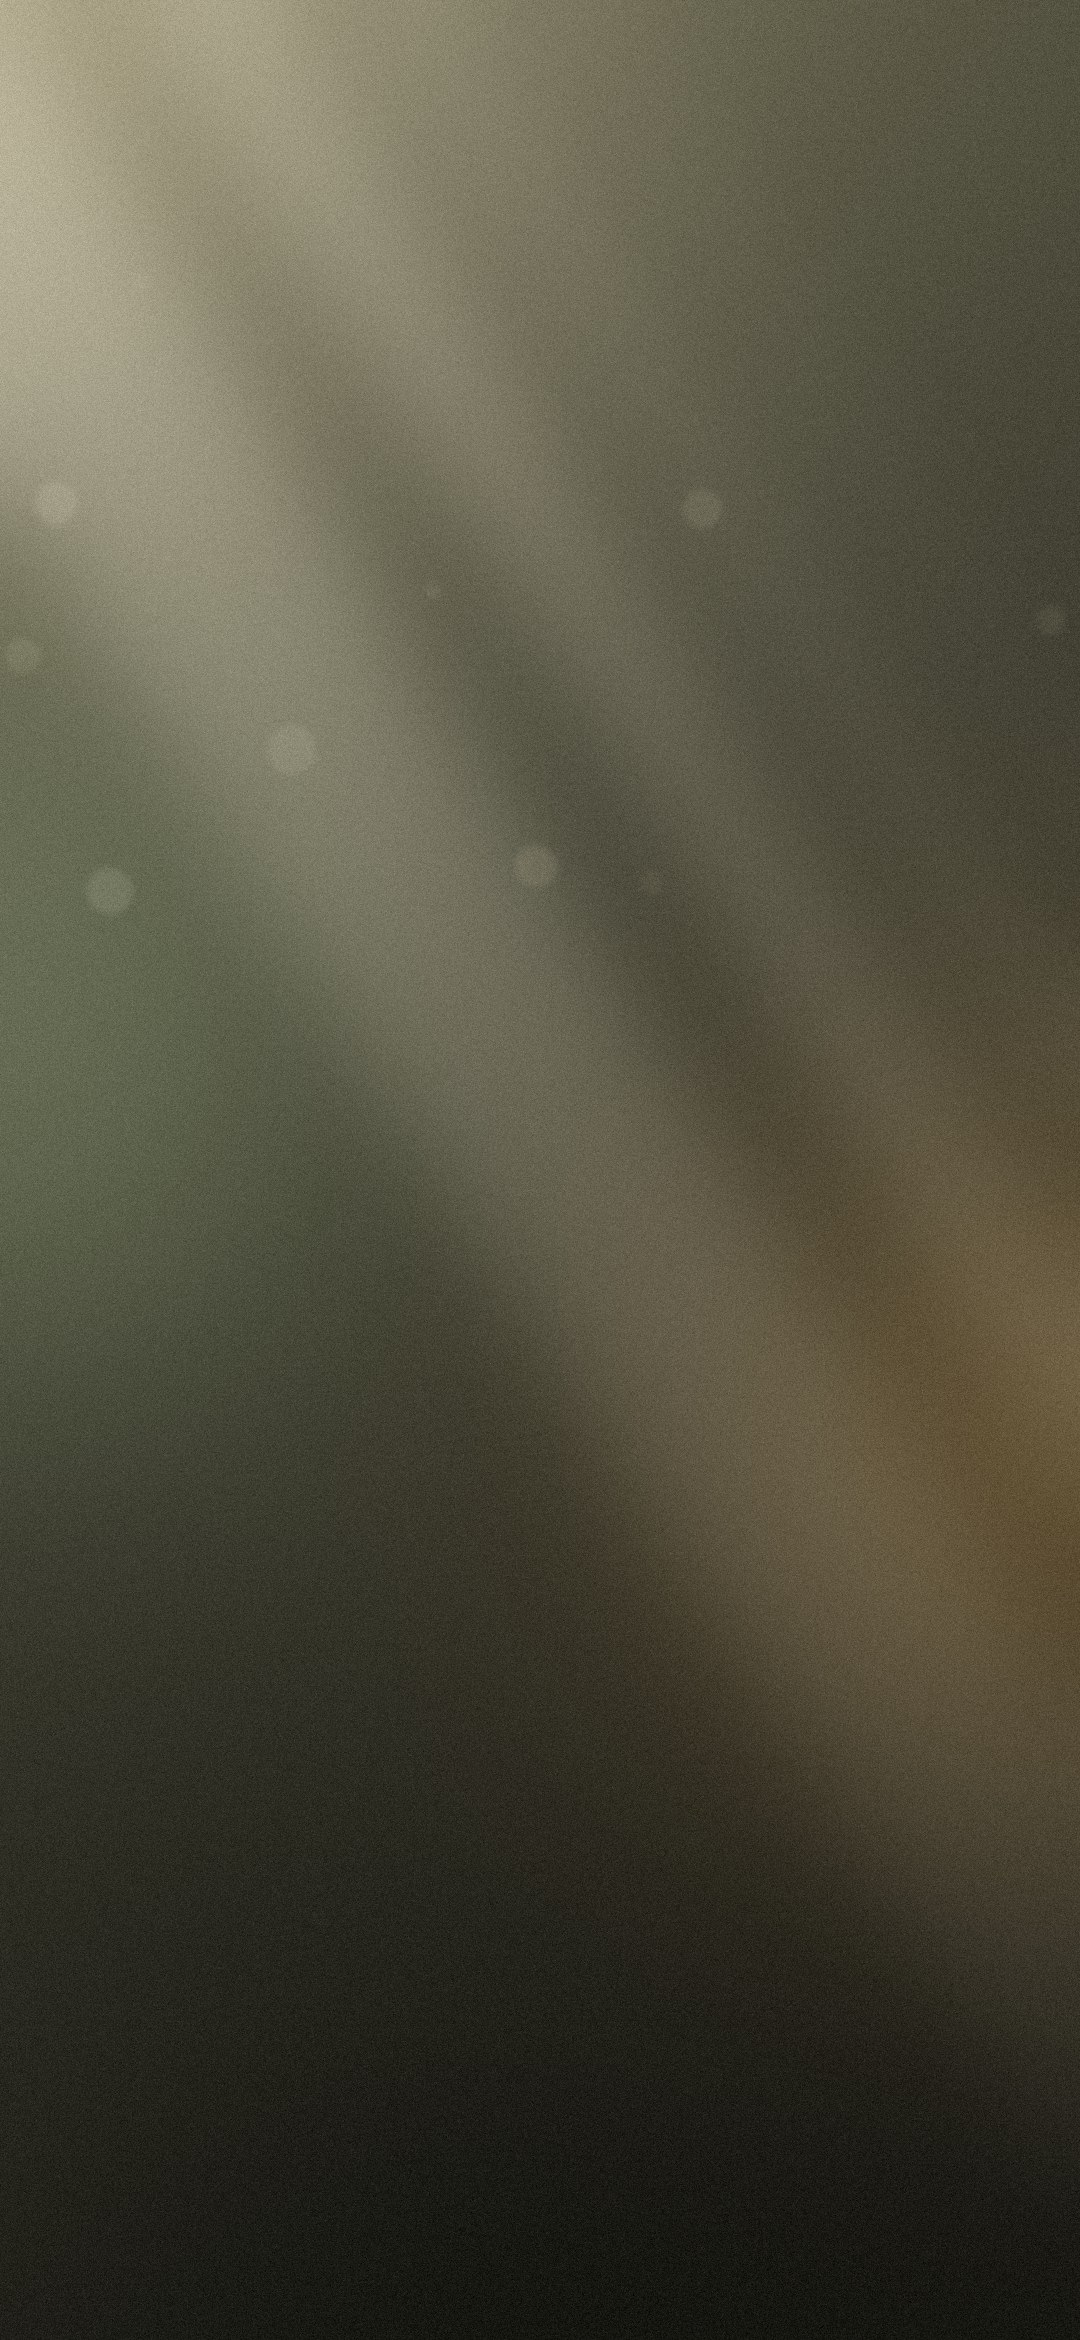
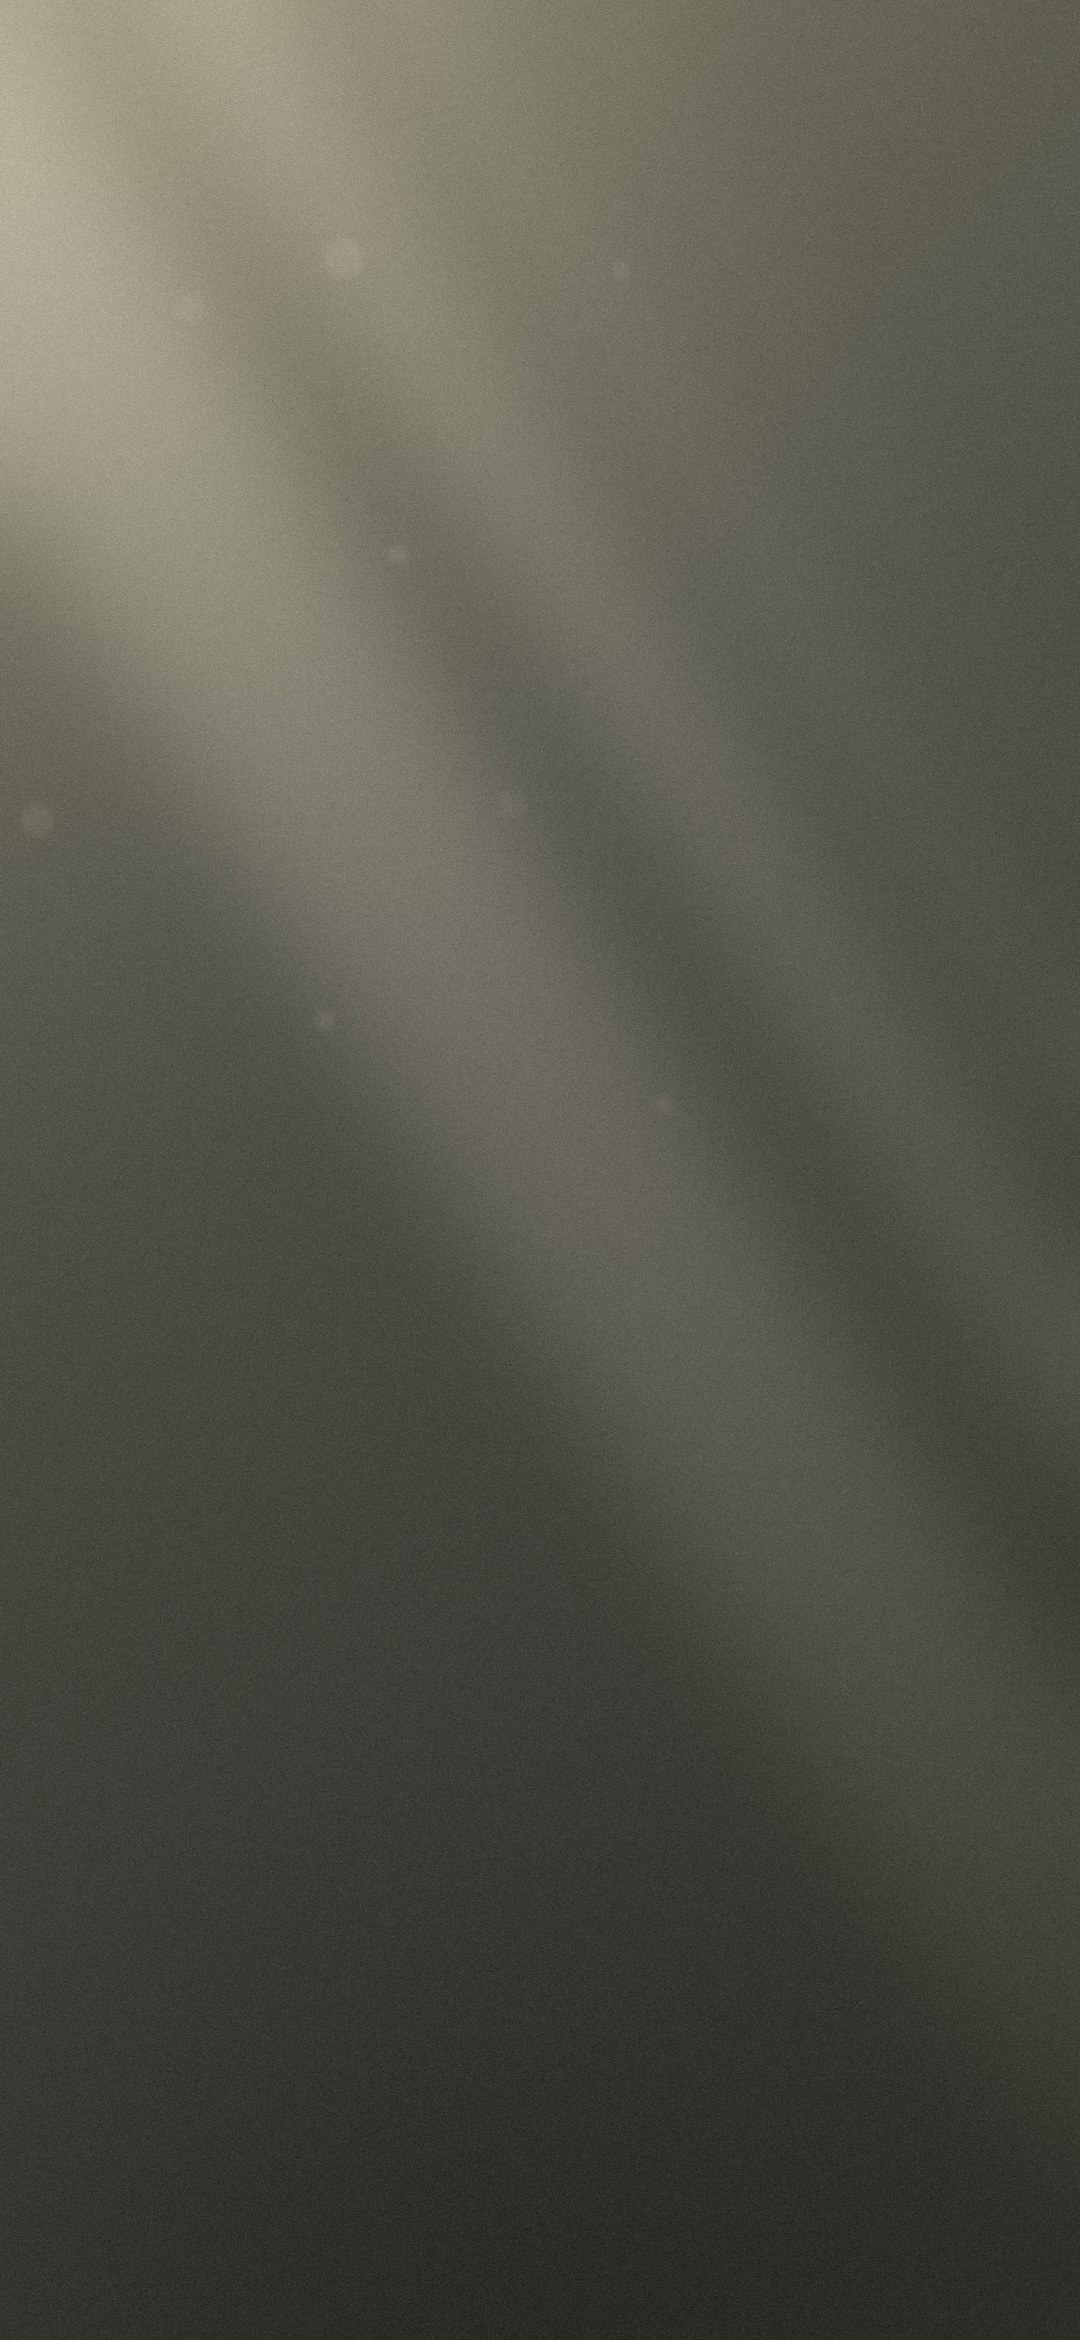
Match the measured reference palettes for Lavender and Stone
Lavender (from the music-app reference)
- Backdrop: light lavender sky (#B4A8EE) through periwinkle (#8494E3) into cobalt,
  with orchid and a touch of hot pink in the light
- Blue-tinted glass, violet selected pills and chips (#938DEE)
- Hot-pink accent (#F270C8) for progress bars and the sound slider, orchid glow

Stone (from the meditation reference)
- Olive palette #676755 / #4B4B44 / #31332B, all warm, cream ink #FFFBE9
- Quieter glass (about 8% lift, light shadow), gold accent #E6D6B3, gold selected pills
- Light-weight headings (DM Sans 300)

New theme tokens: accent, selected, onSelected. Header veils keep text near 4.4:1 or better.

Claude-Session: https://claude.ai/code/session_01J4isz7QKZ3STKCNEGrqxRF

diff --git a/src/theme.ts b/src/theme.ts
@@ -37,6 +37,11 @@ export interface Palette {
   glow: string;
   /** Liquid glass light: the bright top rim, the specular shine, and the colour caught along the bottom edge. */
   rim: string;
+  /** Progress bars, sliders and other small bright accents. */
+  accent: string;
+  /** Selected pills and chips, and their label colour. */
+  selected: string;
+  onSelected: string;
   /** Deep, soft drop shadow that lifts glass off the backdrop (CSS box-shadow syntax). */
   shadow: string;
   shine: string;
@@ -54,30 +59,33 @@ export type Kind = 'routines' | 'gym' | 'chinese' | 'groceries' | 'calendar' | '
 const PALETTES: Record<ThemeName, { colors: Palette; kinds: Record<Kind, KindStyle> }> = {
   lavender: {
     colors: {
-      gradient: ['#8E7CEB', '#6A52DB', '#7A5CE3'],
-      bg: '#7A62E0',
-      card: 'rgba(70,40,180,0.24)',
-      cardBorder: 'rgba(255,255,255,0.3)',
-      sheet: '#6E57D8',
-      input: 'rgba(70,40,180,0.24)',
+      gradient: ['#B4A8EE', '#8494E3', '#3D5FB9'],
+      bg: '#8494E3',
+      card: 'rgba(40,70,160,0.32)',
+      cardBorder: 'rgba(255,255,255,0.24)',
+      sheet: '#5B6BBC',
+      input: 'rgba(40,70,160,0.32)',
       text: '#FFFFFF',
-      muted: 'rgba(255,255,255,0.86)',
-      faint: 'rgba(255,255,255,0.72)',
+      muted: 'rgba(255,255,255,0.88)',
+      faint: 'rgba(255,255,255,0.74)',
       border: 'rgba(255,255,255,0.28)',
       primary: '#FFFFFF',
-      onPrimary: '#5B43D6',
-      primarySoft: 'rgba(255,255,255,0.22)',
+      onPrimary: '#4A55B8',
+      primarySoft: 'rgba(147,141,238,0.6)',
       danger: '#FFD1DC',
-      backdrop: 'rgba(40,24,110,0.35)',
+      backdrop: 'rgba(20,30,80,0.4)',
       tabBar: 'rgba(255,255,255,0.18)',
       statusBar: 'light',
-      glassFill: ['rgba(72,40,190,0.55)', 'rgba(40,18,140,0.6)'],
+      glassFill: ['rgba(60,82,184,0.6)', 'rgba(32,52,112,0.64)'],
       blurTint: 'default',
-      glow: '#E9A8FF',
-      rim: 'rgba(255,255,255,0.7)',
-      shadow: '0px 10px 30px rgba(40,16,130,0.32)',
-      shine: 'rgba(255,255,255,0.14)',
-      edgeGlow: 'rgba(255,170,236,0.22)',
+      glow: '#CD94E6',
+      rim: 'rgba(255,255,255,0.4)',
+      accent: '#F270C8',
+      selected: '#938DEE',
+      onSelected: '#FFFFFF',
+      shadow: '0px 10px 30px rgba(35,58,140,0.35)',
+      shine: 'rgba(255,255,255,0.12)',
+      edgeGlow: 'rgba(205,148,230,0.22)',
     },
     kinds: {
       routines: { color: '#5B43D6', soft: 'rgba(91,67,214,0.25)', label: 'Routines' },
@@ -90,30 +98,33 @@ const PALETTES: Record<ThemeName, { colors: Palette; kinds: Record<Kind, KindSty
   },
   stone: {
     colors: {
-      gradient: ['#55553F', '#3E3E30', '#2A2A22'],
-      bg: '#3E3E30',
-      card: 'rgba(255,255,255,0.08)',
-      cardBorder: 'rgba(255,255,255,0.2)',
-      sheet: '#393A2D',
-      input: 'rgba(255,255,255,0.08)',
-      text: '#F2EEE3',
-      muted: 'rgba(242,238,227,0.66)',
-      faint: 'rgba(242,238,227,0.6)',
+      gradient: ['#676755', '#4B4B44', '#31332B'],
+      bg: '#4B4B44',
+      card: 'rgba(255,250,235,0.08)',
+      cardBorder: 'rgba(255,250,235,0.14)',
+      sheet: '#3F403A',
+      input: 'rgba(255,250,235,0.08)',
+      text: '#FFFBE9',
+      muted: '#C9C2B1',
+      faint: 'rgba(255,251,233,0.6)',
       border: 'rgba(242,238,227,0.14)',
-      primary: '#E4D6B4',
+      primary: '#E6D6B3',
       onPrimary: '#2E2D24',
-      primarySoft: 'rgba(242,238,227,0.12)',
+      primarySoft: 'rgba(255,251,233,0.12)',
       danger: '#E7A08F',
       backdrop: 'rgba(0,0,0,0.45)',
       tabBar: 'rgba(30,30,24,0.6)',
       statusBar: 'light',
-      glassFill: ['rgba(255,250,235,0.16)', 'rgba(255,250,235,0.03)'],
+      glassFill: ['rgba(255,250,235,0.10)', 'rgba(255,250,235,0.04)'],
       blurTint: 'dark',
-      glow: '#E8D3A0',
-      rim: 'rgba(255,246,222,0.5)',
-      shadow: '0px 12px 34px rgba(0,0,0,0.4)',
-      shine: 'rgba(255,248,230,0.12)',
-      edgeGlow: 'rgba(232,211,160,0.10)',
+      glow: '#E6D6B3',
+      rim: '#93917C',
+      accent: '#E6D6B3',
+      selected: '#E6D6B3',
+      onSelected: '#2E2D24',
+      shadow: '0px 6px 18px rgba(0,0,0,0.18)',
+      shine: 'rgba(255,248,230,0.08)',
+      edgeGlow: 'rgba(230,214,179,0.06)',
     },
     kinds: {
       routines: { color: '#A9B9D3', soft: 'rgba(169,185,211,0.18)', label: 'Routines' },
@@ -147,6 +158,9 @@ const PALETTES: Record<ThemeName, { colors: Palette; kinds: Record<Kind, KindSty
       blurTint: 'light',
       glow: 'transparent',
       rim: '#E1E4E0',
+      accent: '#141716',
+      selected: '#141716',
+      onSelected: '#FFFFFF',
       shadow: '0px 1px 2px rgba(0,0,0,0.04)',
       shine: 'transparent',
       edgeGlow: 'transparent',
@@ -178,7 +192,7 @@ const FONTS = {
 
 const DISPLAY: Record<ThemeName, { display: string; displayMedium: string }> = {
   lavender: { display: 'DMSans_700Bold', displayMedium: 'DMSans_700Bold' },
-  stone: { display: 'DMSans_400Regular', displayMedium: 'DMSans_500Medium' },
+  stone: { display: 'DMSans_300Light', displayMedium: 'DMSans_400Regular' },
   paper: { display: 'BricolageGrotesque_700Bold', displayMedium: 'BricolageGrotesque_500Medium' },
 };
 

diff --git a/src/app/index.tsx b/src/app/index.tsx
@@ -820,7 +820,7 @@ const makeStyles = ({ colors, fonts, type, radius, glass }: Theme) =>
     },
     heroActionText: { fontFamily: fonts.bodyBold, fontSize: 15, color: colors.onPrimary },
     heroTrack: { flex: 1, flexDirection: 'row', height: 6, borderRadius: 3, backgroundColor: colors.primarySoft, overflow: 'hidden' },
-    heroFill: { backgroundColor: colors.text, borderRadius: 3 },
+    heroFill: { backgroundColor: colors.accent, borderRadius: 3 },
     shortcuts: { gap: 12, paddingVertical: 14, paddingHorizontal: 14 },
     shortcut: { width: 64, alignItems: 'center', gap: 6 },
     shortcutCircle: {
@@ -845,7 +845,7 @@ const makeStyles = ({ colors, fonts, type, radius, glass }: Theme) =>
     shortcutLabel: { fontFamily: fonts.bodyMedium, fontSize: 12, lineHeight: 15, color: colors.text, textAlign: 'center' },
     status: { gap: 8, marginTop: 20 },
     track: { flexDirection: 'row', height: 3, borderRadius: 2, backgroundColor: colors.border, overflow: 'hidden' },
-    fill: { backgroundColor: colors.text },
+    fill: { backgroundColor: colors.accent },
     timeline: { paddingVertical: 6 },
     rail: { position: 'absolute', left: 88, top: 24, bottom: 24, width: 2, backgroundColor: colors.border },
     tRow: { flexDirection: 'row', alignItems: 'center', gap: 12, paddingVertical: 8, paddingLeft: 12, paddingRight: 16 },

diff --git a/src/components/NowPlaying.tsx b/src/components/NowPlaying.tsx
@@ -156,8 +156,8 @@ const makeStyles = ({ colors, fonts }: Theme) =>
     art: { alignItems: 'center', marginVertical: 22 },
     name: { fontFamily: fonts.display, fontSize: 26, color: colors.text },
     track: { flexDirection: 'row', alignItems: 'center', height: 14, marginTop: 18 },
-    fill: { height: 4, borderRadius: 2, backgroundColor: colors.text },
-    knob: { width: 12, height: 12, borderRadius: 6, backgroundColor: colors.text, marginLeft: -2 },
+    fill: { height: 4, borderRadius: 2, backgroundColor: colors.accent },
+    knob: { width: 12, height: 12, borderRadius: 6, backgroundColor: colors.accent, marginLeft: -2, boxShadow: `0px 0px 10px ${colors.accent}` },
     times: { flexDirection: 'row', justifyContent: 'space-between' },
     time: { fontFamily: fonts.mono, fontSize: 12, color: colors.muted },
     controls: { flexDirection: 'row', alignItems: 'center', justifyContent: 'center', gap: 44, marginTop: 12 },

diff --git a/src/app/_layout.tsx b/src/app/_layout.tsx
@@ -3,6 +3,7 @@ import { BricolageGrotesque_500Medium } from '@expo-google-fonts/bricolage-grote
 import { BricolageGrotesque_700Bold } from '@expo-google-fonts/bricolage-grotesque/700Bold';
 import { DMMono_400Regular } from '@expo-google-fonts/dm-mono/400Regular';
 import { DMMono_500Medium } from '@expo-google-fonts/dm-mono/500Medium';
+import { DMSans_300Light } from '@expo-google-fonts/dm-sans/300Light';
 import { DMSans_400Regular } from '@expo-google-fonts/dm-sans/400Regular';
 import { DMSans_500Medium } from '@expo-google-fonts/dm-sans/500Medium';
 import { DMSans_700Bold } from '@expo-google-fonts/dm-sans/700Bold';
@@ -41,6 +42,7 @@ export default function RootLayout() {
   const [loaded, error] = useFonts({
     BricolageGrotesque_500Medium,
     BricolageGrotesque_700Bold,
+    DMSans_300Light,
     DMSans_400Regular,
     DMSans_500Medium,
     DMSans_700Bold,

diff --git a/src/components/Art.tsx b/src/components/Art.tsx
@@ -10,11 +10,11 @@ const BACKDROPS = {
   stone: require('../../assets/art/stone-bg.jpg'),
 };
 // A light veil over each backdrop so white text keeps its contrast where the light is brightest.
-const SCRIMS = { lavender: 'rgba(40,20,120,0.12)', stone: 'rgba(16,16,10,0.2)' };
+const SCRIMS = { lavender: 'rgba(30,40,110,0.06)', stone: 'rgba(16,16,10,0.1)' };
 // Headers sit straight on the backdrop, where its light is brightest; a deeper veil up top keeps them readable.
 const TOP_VEILS: Record<'lavender' | 'stone', [string, string]> = {
-  lavender: ['rgba(46,22,150,0.58)', 'rgba(46,22,150,0)'],
-  stone: ['rgba(12,12,8,0.45)', 'rgba(12,12,8,0)'],
+  lavender: ['rgba(44,56,150,0.66)', 'rgba(44,56,150,0)'],
+  stone: ['rgba(20,20,14,0.52)', 'rgba(20,20,14,0)'],
 };
 const PORTALS: Record<string, number> = {
   dusk: require('../../assets/art/portal-dusk.jpg'),

diff --git a/src/app/library.tsx b/src/app/library.tsx
@@ -97,8 +97,8 @@ const makeStyles = ({ colors, fonts }: Theme) =>
       borderColor: colors.cardBorder,
       backgroundColor: colors.card,
     },
-    pillActive: { backgroundColor: colors.primary, borderColor: colors.primary },
+    pillActive: { backgroundColor: colors.selected, borderColor: colors.selected },
     pillText: { fontFamily: fonts.bodyMedium, fontSize: 14, color: colors.text },
-    pillTextActive: { color: colors.onPrimary },
+    pillTextActive: { color: colors.onSelected },
     pillCount: { fontFamily: fonts.mono, fontSize: 12, opacity: 0.7 },
   });

diff --git a/src/app/inbox.tsx b/src/app/inbox.tsx
@@ -145,8 +145,8 @@ const makeStyles = ({ colors, fonts }: Theme) =>
       borderColor: colors.border,
       justifyContent: 'center',
     },
-    actionActive: { backgroundColor: colors.primary, borderColor: colors.primary },
+    actionActive: { backgroundColor: colors.selected, borderColor: colors.selected },
     actionText: { fontFamily: fonts.bodyMedium, fontSize: 13, color: colors.text },
-    actionTextActive: { color: colors.onPrimary },
+    actionTextActive: { color: colors.onSelected },
     hint: { textAlign: 'center', marginTop: 20 },
   });

diff --git a/src/components/Chip.tsx b/src/components/Chip.tsx
@@ -24,8 +24,8 @@ const makeStyles = ({ colors, fonts }: Theme) =>
     borderColor: colors.cardBorder,
     backgroundColor: colors.card,
   },
-  chipActive: { backgroundColor: colors.primary, borderColor: colors.primary },
+  chipActive: { backgroundColor: colors.selected, borderColor: colors.selected },
   pressed: { backgroundColor: colors.primarySoft },
   chipText: { color: colors.text, fontSize: 14, fontFamily: fonts.bodyMedium },
-  chipTextActive: { color: colors.onPrimary },
+  chipTextActive: { color: colors.onSelected },
 });

diff --git a/scripts/render-art.py b/scripts/render-art.py
@@ -70,32 +70,31 @@ def save(img, name, quality=88):
 
 
 def lavender_backdrop():
-    """A multi-point mesh: hot pink, sky blue, peach and deep indigo light pooling over violet."""
-    img = gradient([(0, hexc('#8E7CEB')), (0.5, hexc('#6A52DB')), (1, hexc('#7A5CE3'))])
-    glow(img, W * 0.98, H * 0.06, W * 0.7, hexc('#FF8FE0'), 0.9)
-    glow(img, W * 0.0, H * 0.32, W * 0.62, hexc('#6FB4FF'), 0.8)
-    glow(img, W * 0.55, H * 0.5, W * 0.45, hexc('#B86BFF'), 0.55)
-    glow(img, W * 0.95, H * 0.72, W * 0.7, hexc('#3B20A8'), 0.75)
-    glow(img, W * 0.05, H * 0.9, W * 0.6, hexc('#FFAE9A'), 0.55)
-    glow(img, W * 0.2, H * 0.02, W * 0.35, hexc('#FFE6FB'), 0.5)
-    img = 1 - (1 - img) * (1 - beams([(-200, 260, 0.18), (140, 90, 0.14), (330, 40, 0.12)], 28, 40))
-    img = bokeh(img, 26, 18, 70, (255, 235, 255), 0.2, 6)
-    img = bokeh(img, 60, 3, 8, (255, 255, 255), 0.5, 1.2)
-    save(grain(img, 0.018), 'lavender-bg')
+    """Measured from the reference: a light lavender sky that deepens through periwinkle into cobalt,
+    with orchid and a touch of hot pink in the light."""
+    img = gradient([(0, hexc('#B4A8EE')), (0.3, hexc('#8494E3')), (0.62, hexc('#5B6BBC')), (1, hexc('#2C4790'))], tilt=0.08)
+    glow(img, W * 0.1, H * 0.02, W * 0.6, hexc('#DBDCFD'), 0.6)
+    glow(img, W * 1.0, H * 0.12, W * 0.55, hexc('#CD94E6'), 0.65)
+    glow(img, W * 0.95, H * 0.45, W * 0.4, hexc('#F270C8'), 0.22)
+    glow(img, W * 0.0, H * 0.55, W * 0.5, hexc('#8494E3'), 0.35)
+    glow(img, W * 0.5, H * 1.05, W * 0.8, hexc('#233A73'), 0.6)
+    img = 1 - (1 - img) * (1 - beams([(-200, 260, 0.12), (140, 90, 0.09)], 24, 50))
+    img = bokeh(img, 22, 18, 64, (235, 235, 255), 0.16, 6)
+    img = bokeh(img, 50, 3, 7, (255, 255, 255), 0.45, 1.2)
+    save(grain(img, 0.016), 'lavender-bg')
 
 
 def stone_backdrop():
-    """Olive mesh: warm sunlight top left, cool sage on the left, amber low right, deep moss shadow."""
-    img = gradient([(0, hexc('#5E5C46')), (0.4, hexc('#3F3E31')), (1, hexc('#1B1B16'))], tilt=0.2)
-    glow(img, -W * 0.1, -H * 0.05, W * 1.0, hexc('#F7EAC6'), 0.5)
-    glow(img, W * 0.0, H * 0.45, W * 0.55, hexc('#8FA27A'), 0.4)
-    glow(img, W * 1.0, H * 0.62, W * 0.6, hexc('#B48A4C'), 0.38)
-    glow(img, W * 0.5, H * 1.1, W * 0.9, hexc('#0A0A07'), 0.55)
+    """Measured from the reference: warm olive-grey, sunlit at the top left, falling into shadow.
+    All warm; no cool colours."""
+    img = gradient([(0, hexc('#676755')), (0.45, hexc('#4B4B44')), (1, hexc('#31332B'))], tilt=0.2)
+    glow(img, -W * 0.1, -H * 0.05, W * 1.0, hexc('#F3E6C4'), 0.45)
+    glow(img, W * 0.5, H * 1.1, W * 0.9, hexc('#1B1A16'), 0.5)
     fade = np.clip(1.15 - np.linspace(0, 1, H) * 1.1, 0, 1)[:, None, None]  # sunlight fades lower down
-    light = beams([(-300, 300, 0.30), (150, 120, 0.24), (380, 60, 0.18), (560, 26, 0.14)], 32, 50) * fade
+    light = beams([(-300, 300, 0.28), (150, 120, 0.22), (380, 60, 0.16), (560, 26, 0.12)], 32, 50) * fade
     img = 1 - (1 - img) * (1 - light * hexc('#FFF1CF'))
-    img = bokeh(img, 10, 8, 26, (255, 240, 205), 0.12, 4, ymax=0.5)
-    save(grain(img, 0.022), 'stone-bg')
+    img = bokeh(img, 8, 8, 24, (255, 240, 205), 0.1, 4, ymax=0.5)
+    save(grain(img, 0.02), 'stone-bg')
 
 
 def portal(name, top, mid, horizon, glow_color, figure, size=1000):
